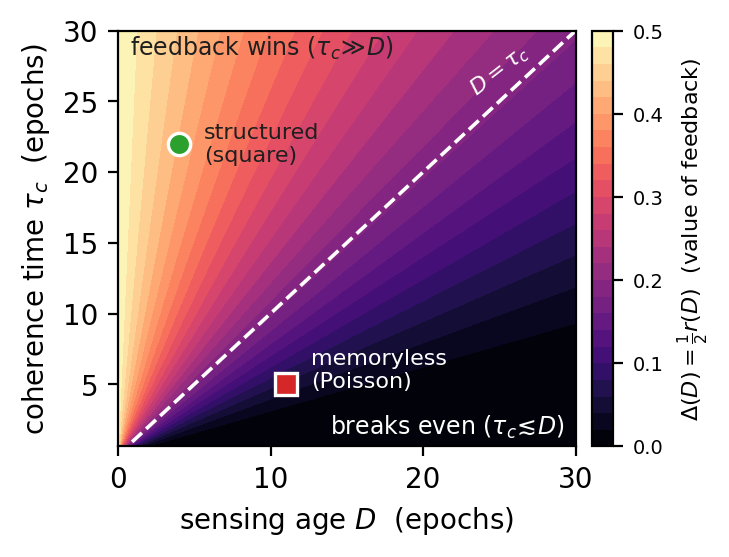
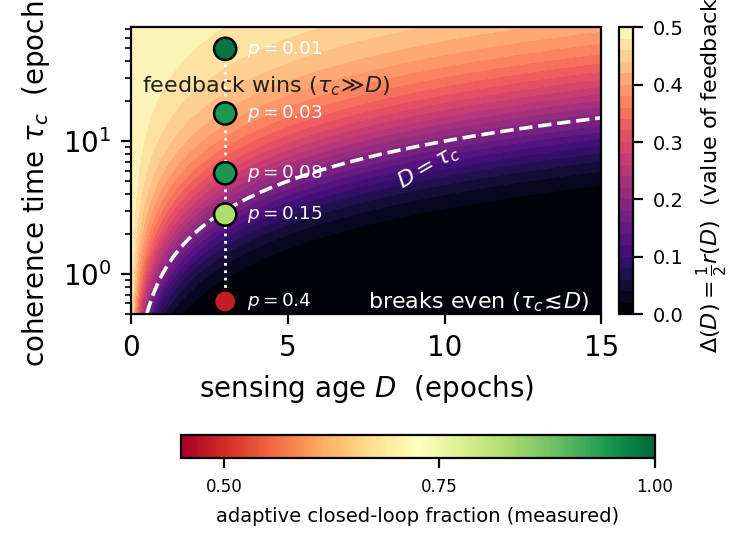
infocom: Fig. 3 now shows the REAL E9 markov sweep, not illustrative markers
Checked the E9 result JSONs to pin the phase-map markers to measured data, and
found the previous illustrative placement was wrong: BOTH contention profiles
sit at tau_c > D (square tau_c~11, r~0.76; poisson tau_c~7.7, r~0.68). The
poisson profile is NOT at tau_c<~D -- its break-even is the raw-goodput/
over-admission effect the eval already explains, not r(D)~0. The genuine
r(D)~0 regime is the markov p=0.4 sweep point (tau_c~0.62).

Rebuilt Fig. 3 from the actual adaptive_markov_*_p*.json: 5 measured operating
points at fixed D=3, flip rate p walking tau_c(p)=-1/ln(1-2p) down a log axis
across the D=tau_c ridge, each shaded by the adaptive controller's MEASURED
closed-loop fraction (0.98 deep in trackable at p=0.01 -> 0.48 at p=0.4 in
break-even). The switch opens exactly as the sweep crosses the ridge -- a direct
data validation of Cor. imp. New markov_sweep_points() reads the JSONs so the
figure is reproducible; caption rewritten; figure now referenced from Cor. imp.

NOTE (flagged for author): Cor. exp and the abstract still say the poisson
regime is r(D)->0 / tau_c<~D. The data does not support that mechanism
(poisson r~0.68); its break-even is over-admission masking on hardware. Left
the empirical framing untouched pending author review -- removed only the stale
Fig. 3 cross-ref from Cor. exp so it no longer points at the corrected figure.

Still 10pp, no undefined refs/citations.

diff --git a/paper/figures/make_infocom_figs.py b/paper/figures/make_infocom_figs.py
@@ -68,49 +68,85 @@ def pareto(subdir, title, eps, fname):
     print(f"wrote {fname}.pdf/.png from {subdir}")
 
 
-def phase(fname="feedback_phase"):
-    """Feedback-value phase map: Delta = 1/2 exp(-D/tau_c) over the sensing-age x
-    coherence-time plane, with the crossover ridge D=tau_c and the two
-    pre-registered contention regimes marked (illustrative placement)."""
+E9 = os.path.join(HERE, "..", "..", "benchmarks", "infocom", "e9_results")
+
+
+def markov_sweep_points():
+    """Real E9 operating points: for each flip rate p, the true coherence
+    tau_c(p)=-1/ln(1-2p) at the fixed sensing age D, and the adaptive
+    controller's mean measured closed-loop fraction (over seeds)."""
+    import math
     import numpy as np
 
-    D = np.linspace(0.0, 30.0, 400)
-    tau = np.linspace(0.6, 30.0, 400)
+    pts = []
+    for p in [0.01, 0.03, 0.08, 0.15, 0.4]:
+        fs = sorted(glob.glob(os.path.join(E9, f"adaptive_markov_*_p{p}.json")))
+        if not fs:
+            continue
+        recs = [json.load(open(f))["result"]["adaptive"] for f in fs]
+        Dv = recs[0]["D"]
+        fc = float(np.mean([r["frac_closed_loop"] for r in recs]))
+        pts.append((Dv, -1.0 / math.log(1 - 2 * p), fc, p))
+    return pts
+
+
+def phase(fname="feedback_phase"):
+    """Feedback-value phase map: Delta = 1/2 exp(-D/tau_c) over the sensing-age x
+    coherence-time plane, overlaid with the REAL E9 markov contention sweep --
+    fixed D=3, flip rate p walking tau_c down across the D=tau_c ridge, each point
+    shaded by the adaptive controller's measured closed-loop fraction."""
+    import numpy as np
+
+    D = np.linspace(0.05, 15.0, 320)
+    tau = np.geomspace(0.5, 72.0, 320)
     DD, TT = np.meshgrid(D, tau)
     Z = 0.5 * np.exp(-DD / TT)  # Delta(D) = 1/2 r(D), r(D)=e^{-D/tau_c}
 
-    fig, ax = plt.subplots(figsize=(3.6, 2.7))
+    fig, ax = plt.subplots(figsize=(3.7, 2.8))
     cf = ax.contourf(DD, TT, Z, levels=np.linspace(0, 0.5, 26), cmap="magma")
-    # crossover ridge D = tau_c  (Delta = 1/2 e^{-1} ~ 0.184)
+    ax.set_yscale("log")
+    # crossover ridge D = tau_c
     ax.plot(D, D, ls="--", color="white", lw=1.3)
-    ax.text(25.0, 27.2, r"$D=\tau_c$", color="white", fontsize=8, rotation=38,
+    ax.text(9.5, 6.4, r"$D=\tau_c$", color="white", fontsize=8, rotation=30,
             ha="center", va="center")
-    # region descriptors: dark ink on the bright zone, light ink on the dark zone
-    ax.text(0.8, 28.8, r"feedback wins ($\tau_c\!\gg\!D$)", color="0.12",
-            fontsize=8.5, ha="left", va="center")
-    ax.text(29.3, 2.0, r"breaks even ($\tau_c\!\lesssim\!D$)", color="white",
-            fontsize=8.5, ha="right", va="center")
-    # the two pre-registered experiments (illustrative placement on the map)
-    ax.plot(4.0, 22.0, "o", ms=8, mfc="#2ca02c", mec="white", mew=1.2, zorder=5)
-    ax.annotate("structured\n(square)", (4.0, 22.0), textcoords="offset points",
-                xytext=(9, 0), fontsize=8, color="0.12", va="center")
-    ax.plot(11.0, 5.0, "s", ms=8, mfc="#d62728", mec="white", mew=1.2, zorder=5)
-    ax.annotate("memoryless\n(Poisson)", (11.0, 5.0), textcoords="offset points",
-                xytext=(9, 5), fontsize=8, color="white", va="center")
+    # region descriptors
+    ax.text(0.35, 26, r"feedback wins ($\tau_c\!\gg\!D$)", color="0.12",
+            fontsize=8, ha="left", va="center")
+    ax.text(14.6, 0.62, r"breaks even ($\tau_c\!\lesssim\!D$)", color="white",
+            fontsize=8, ha="right", va="center")
+
+    # --- real E9 markov sweep: operating points at fixed D, colored by
+    #     the adaptive controller's measured closed-loop fraction ---
+    pts = markov_sweep_points()
+    if pts:
+        Dp = [q[0] for q in pts]
+        Tp = [q[1] for q in pts]
+        Fp = [q[2] for q in pts]
+        ax.plot(Dp, Tp, ":", color="white", lw=1.0, zorder=4)
+        sc = ax.scatter(Dp, Tp, c=Fp, cmap="RdYlGn", vmin=0.45, vmax=1.0,
+                        s=64, edgecolors="black", linewidths=0.9, zorder=5)
+        for (Dv, tc, fc, p) in pts:
+            ax.annotate(f"$p={p}$", (Dv, tc), textcoords="offset points",
+                        xytext=(8, 0), fontsize=6.6, color="white", va="center")
+        cb2 = fig.colorbar(sc, ax=ax, location="bottom", fraction=0.055,
+                           pad=0.28, ticks=[0.5, 0.75, 1.0])
+        cb2.set_label("adaptive closed-loop fraction (measured)", fontsize=7)
+        cb2.ax.tick_params(labelsize=6)
+
     ax.set_xlabel(r"sensing age $D$  (epochs)")
     ax.set_ylabel(r"coherence time $\tau_c$  (epochs)")
-    ax.set_xlim(0, 30)
-    ax.set_ylim(0.6, 30)
+    ax.set_xlim(0, 15)
+    ax.set_ylim(0.5, 72)
     cb = fig.colorbar(cf, ax=ax, ticks=[0, 0.1, 0.2, 0.3, 0.4, 0.5], pad=0.03)
     cb.set_label(r"$\Delta(D)=\frac{1}{2} r(D)$  (value of feedback)", fontsize=8)
     cb.ax.tick_params(labelsize=7)
     for ext in ("pdf", "png"):
         fig.savefig(os.path.join(HERE, f"{fname}.{ext}"), dpi=200, bbox_inches="tight")
     plt.close(fig)
-    print(f"wrote {fname}.pdf/.png")
+    print(f"wrote {fname}.pdf/.png ({len(pts)} real sweep points)")
 
 
-phase()  # analytic; no data dependency, so generate first
+phase()  # reads E9 markov results if present
 try:
     pareto("e8_atlas", "End-to-end (GPU pool, C=2)", 0.0, "pareto_gpu")
     pareto("e8_atlas_cpu", "End-to-end (CPU pool, C=8)", 0.0, "pareto_cpu")

diff --git a/paper/infocom_aoi_model.tex b/paper/infocom_aoi_model.tex
@@ -190,7 +190,8 @@ general they need not---a decorrelated process ($r(D){=}0$) can still be exactly
 predictable from its history (e.g.\ a random-phase deterministic square wave)---so for
 an \emph{arbitrary} capacity process the vanishing of the advantage is governed by the
 $\beta$-mixing coefficient, not by $r(D)$. At $D=0$, $\Delta=\tfrac12$ (capacity is
-perfectly trackable); the advantage halves every $\tau_c\ln 2$ epochs of added age.
+perfectly trackable); the advantage halves every $\tau_c\ln 2$ epochs of added age
+(mapped, with the measured contention sweep, in Fig.~\ref{fig:phase}).
 App.~\ref{app:beta} makes the general statement precise, extending the impossibility to
 arbitrary (non-binary, non-Markov) capacity processes with the decay rate set by
 $\beta(D)$.
@@ -219,21 +220,24 @@ $r(D)\!\approx\!1$ and feedback is near-maximally useful (low $\rho$, large good
 gain); \emph{memoryless (Poisson)} load drives $\tau_c\lesssim D$, so
 $r(D)\!\approx\!0$ and feedback collapses onto static---the pre-registered null.
 The single curve \eqref{eq:adv} predicts both regimes and the crossover between
-them (Fig.~\ref{fig:phase}).
+them.
 \end{corollary}
 
 \begin{figure}[t]
 \centering
 \includegraphics[width=\columnwidth]{figures/feedback_phase.pdf}
-\caption{\textbf{The impossibility as a map} (Cor.~\ref{cor:imp},~\ref{cor:exp}).
+\caption{\textbf{The impossibility as a map} (Cor.~\ref{cor:imp}).
 The value of feedback $\Delta(D)=\tfrac12 r(D)=\tfrac12 e^{-D/\tau_c}$ over the
-sensing-age\,/\,coherence-time plane. Closed-loop admission is worth acting on only in
-the upper-left, where the guest senses the neighbour faster than it changes
-($\tau_c\!\gg\!D$); as $D$ grows past the ridge $D=\tau_c$ the advantage decays to zero.
-The two pre-registered contention regimes of \S\ref{sec:eval} sit on opposite sides:
-\emph{structured (square)} load ($\tau_c\!\gg\!D$) near the maximum, \emph{memoryless
-(Poisson)} load ($\tau_c\!\lesssim\!D$) at the floor---the null the regime-adaptive
-controller is built to detect. Marker placement is illustrative.}
+sensing-age\,/\,coherence-time plane (log $\tau_c$ axis); closed-loop admission is
+worth acting on only where the guest senses the neighbour faster than it changes
+($\tau_c\!\gg\!D$), and the advantage decays to zero as $D$ grows past the ridge
+$D=\tau_c$. Points are the \emph{measured} \textsc{e9} markov contention sweep of
+\S\ref{sec:eval} (fixed $D{=}3$; flip rate $p$ walks the coherence
+$\tau_c(p)=-1/\ln(1-2p)$ down the axis), each shaded by the adaptive controller's
+measured closed-loop fraction: deep in the trackable regime ($p{=}0.01$) it stays
+closed-loop ($0.98$), and it opens onto static ($0.48$) as the sweep crosses the ridge
+into the break-even regime ($p{=}0.4$, $r(D)\!\approx\!0$)---the null the controller
+is built to detect.}
 \label{fig:phase}
 \end{figure}
 